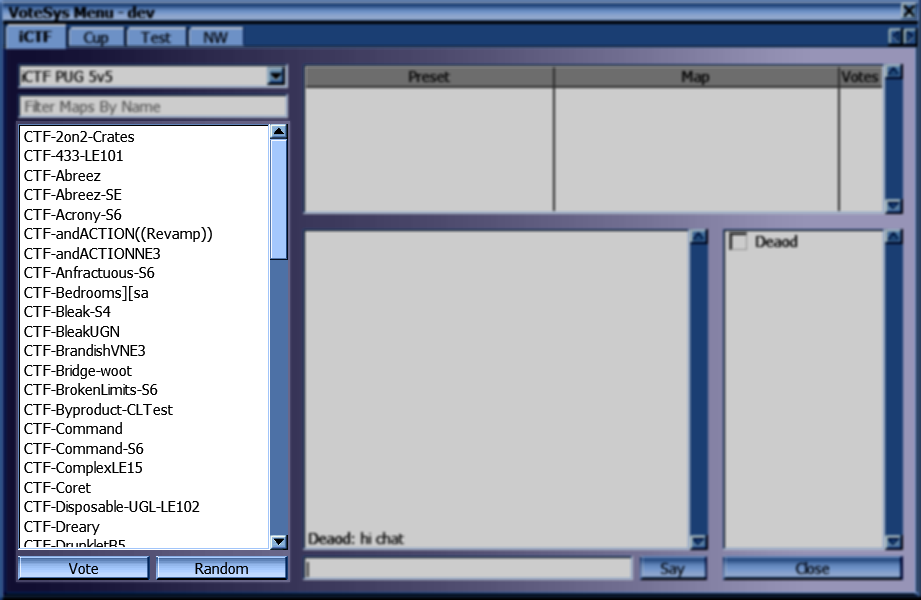
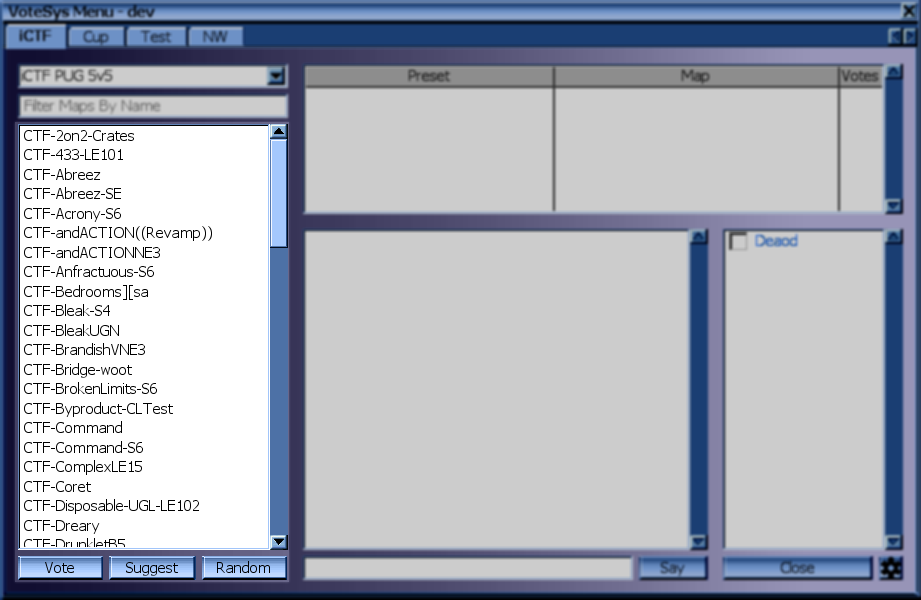
Add Suggest Button

diff --git a/Docs/ui.md b/Docs/ui.md
@@ -32,11 +32,14 @@ Allows filtering the map list. Only maps containing the sequence of letters ente
 
 ![Map List](MapListHighlight.png)
 
-Shows the maps available to be used with the currently selected preset.
+Shows the maps available to be used with the currently selected preset.  
+Maps unavailable due to player limits or repetition restrictions are grayed out and cannot be selected.
 
 Selecting a map clears any current selection in the candidate list.  
 Double-clicking votes for the map and preset combination.  
 Alternatively, you can vote for a map/preset combination by selecting a map in the list and pressing the "Vote" button.
+
+The "Suggest" button will select a suitable map from the list and place your vote for it.
 
 The "Random" button will place your vote for a random map of the currently selected preset.
 
